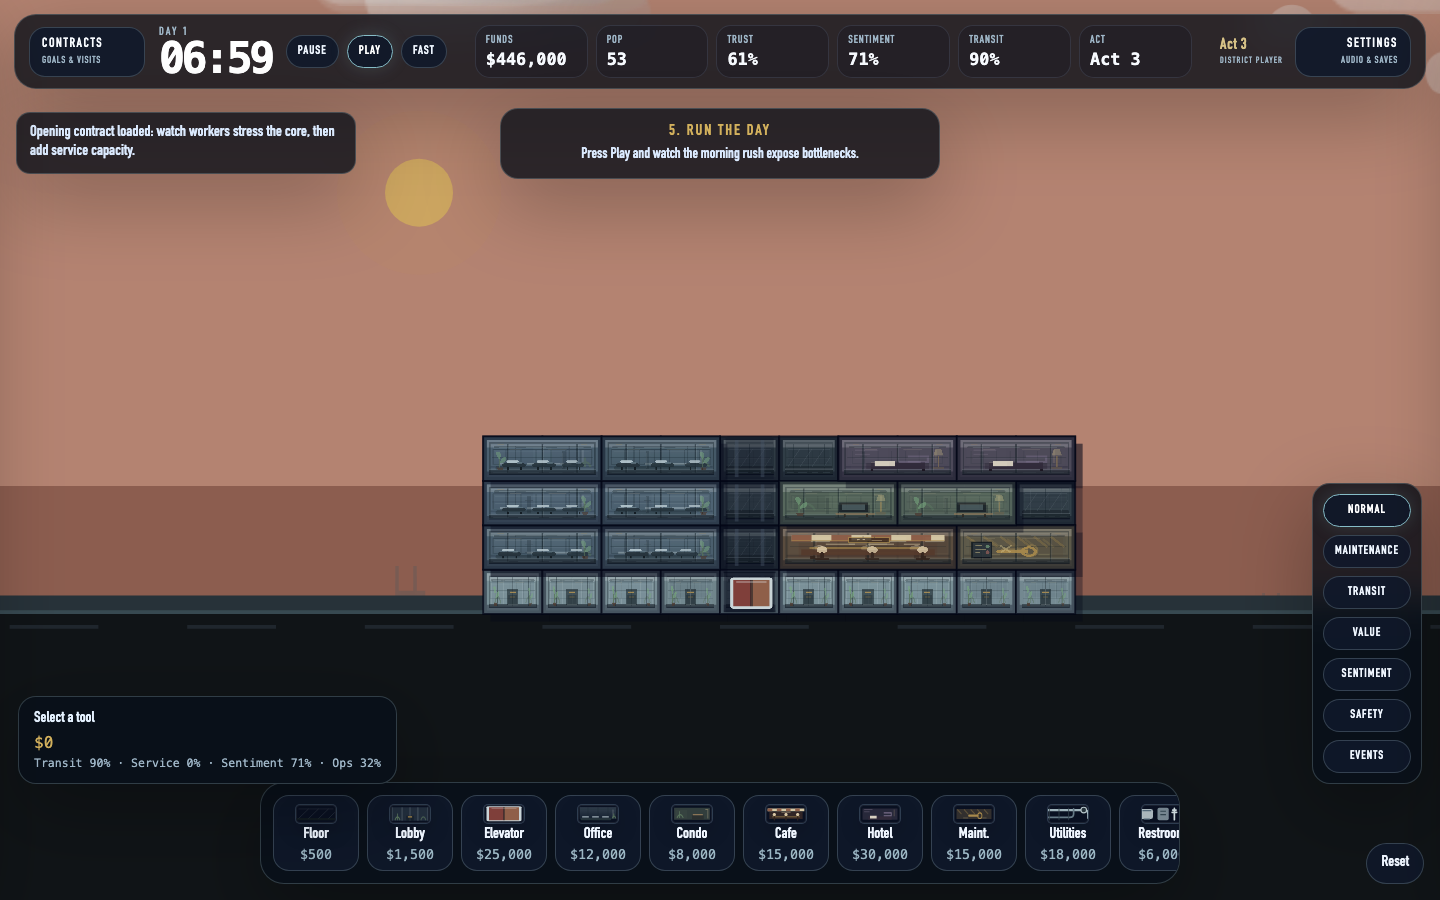
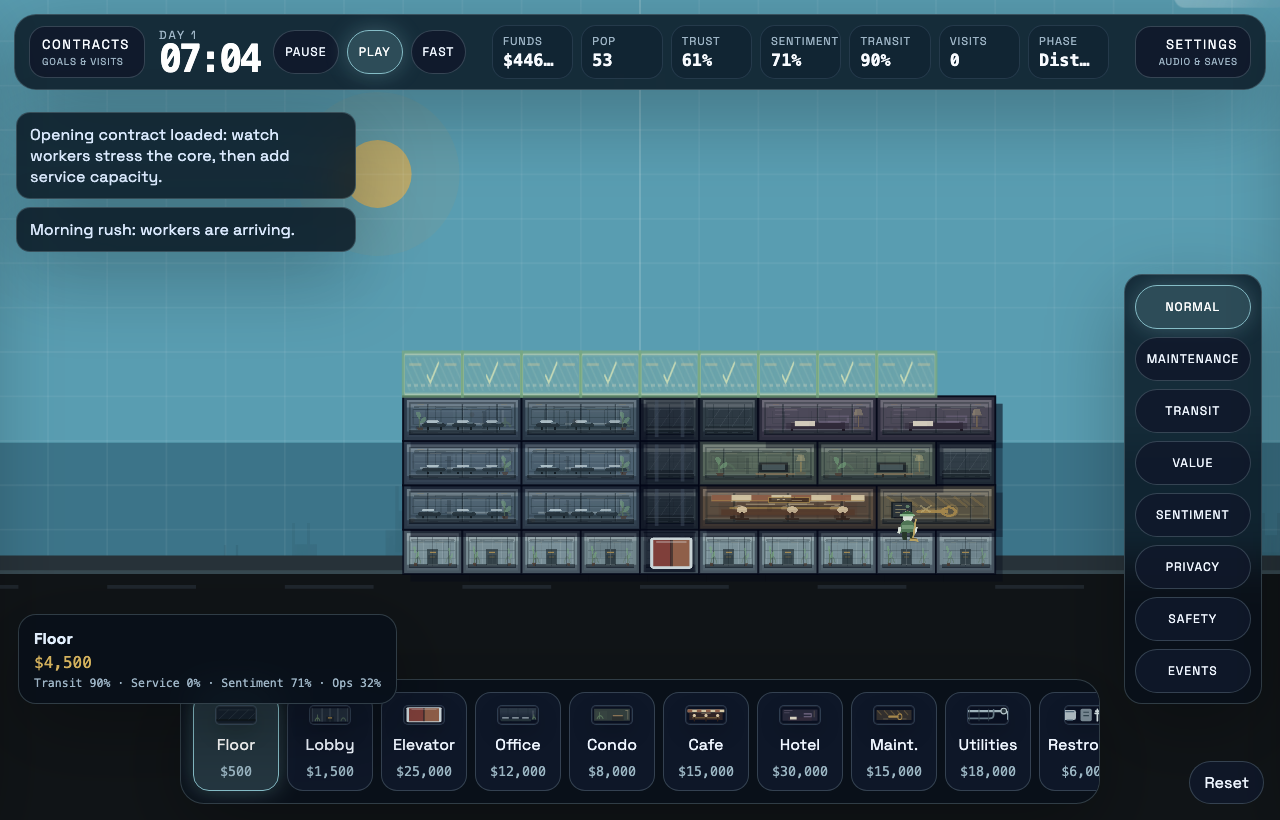
fix(ui): compact HUD funds + refresh landing previews
Second golden-path polish bundle.

## Compact HUD funds

Top-HUD Funds cell was clipping to '$4,533...' on medium widths.
The grid uses minmax(70px, 1fr) × 7 columns; the full
toLocaleString() value overflows once funds crosses six figures.
Added formatMoneyCompact() that switches to $4.5M / $450k / $4,533
depending on magnitude. Keeps the sign for negatives.

Used only in the top HUD — the rest of the app keeps the full
precise formatMoney() where there's room.

## Landing preview refresh

public/assets/previews/*.png was committed 19 hours before the
v1.0 baseline cut and has drifted badly:

- Thumbnails show 'Act 3' labels (T01 removed user-facing act
  ladder)
- 'Run the Day' tutorial card visible mid-gameplay (T10+ fixed
  dismissal, but on this branch's active-state fix)
- NORMAL lens button un-highlighted (pre-active-state fix)

Every scenario card on the landing page and every PWA manifest
screenshot currently misrepresents the live game. Refreshed from
the latest capture:screenshots run of this branch:

- opening-desktop.png ← build-ghost-desktop (clean daytime
  construction, no tutorial overlay, proper active-state)
- menu-desktop / menu-mobile
- skyline-victory-desktop, weather-stress-desktop,
  recovery-contract-desktop
- daily-report-desktop, privacy-lens-desktop

opening-mobile.png left stale for now — capture script doesn't
produce a direct match; follow-up can author one once the mobile
lane is in a dedicated pass.

diff --git a/app/App.tsx b/app/App.tsx
@@ -310,6 +310,17 @@ function formatMoney(value: number): string {
   return value < 0 ? `-$${magnitude}` : `$${magnitude}`;
 }
 
+// Compact currency for the top-HUD funds cell, where the column is narrow
+// (minmax(70px, 1fr)) and full $4,533,000 clips to "$4,533..." — unreadable.
+// $4.5M reads at a glance and fits. Keeps sign handling for negatives.
+function formatMoneyCompact(value: number): string {
+  const abs = Math.abs(Math.round(value));
+  const sign = value < 0 ? '-' : '';
+  if (abs >= 1_000_000) return `${sign}$${(abs / 1_000_000).toFixed(abs >= 10_000_000 ? 0 : 1)}M`;
+  if (abs >= 10_000) return `${sign}$${(abs / 1_000).toFixed(0)}k`;
+  return `${sign}$${abs.toLocaleString()}`;
+}
+
 function formatSlotSummary(summary: SaveSlotSummary | undefined): string {
   if (!summary) return 'Empty';
   const identity = summary.declaredIdentity ?? summary.identity;
@@ -1120,7 +1131,7 @@ export function App() {
         <div class="top-metrics">
           <article>
             <span>Funds</span>
-            <strong>${economyState().funds.toLocaleString()}</strong>
+            <strong>{formatMoneyCompact(economyState().funds)}</strong>
           </article>
           <article>
             <span>Pop</span>
